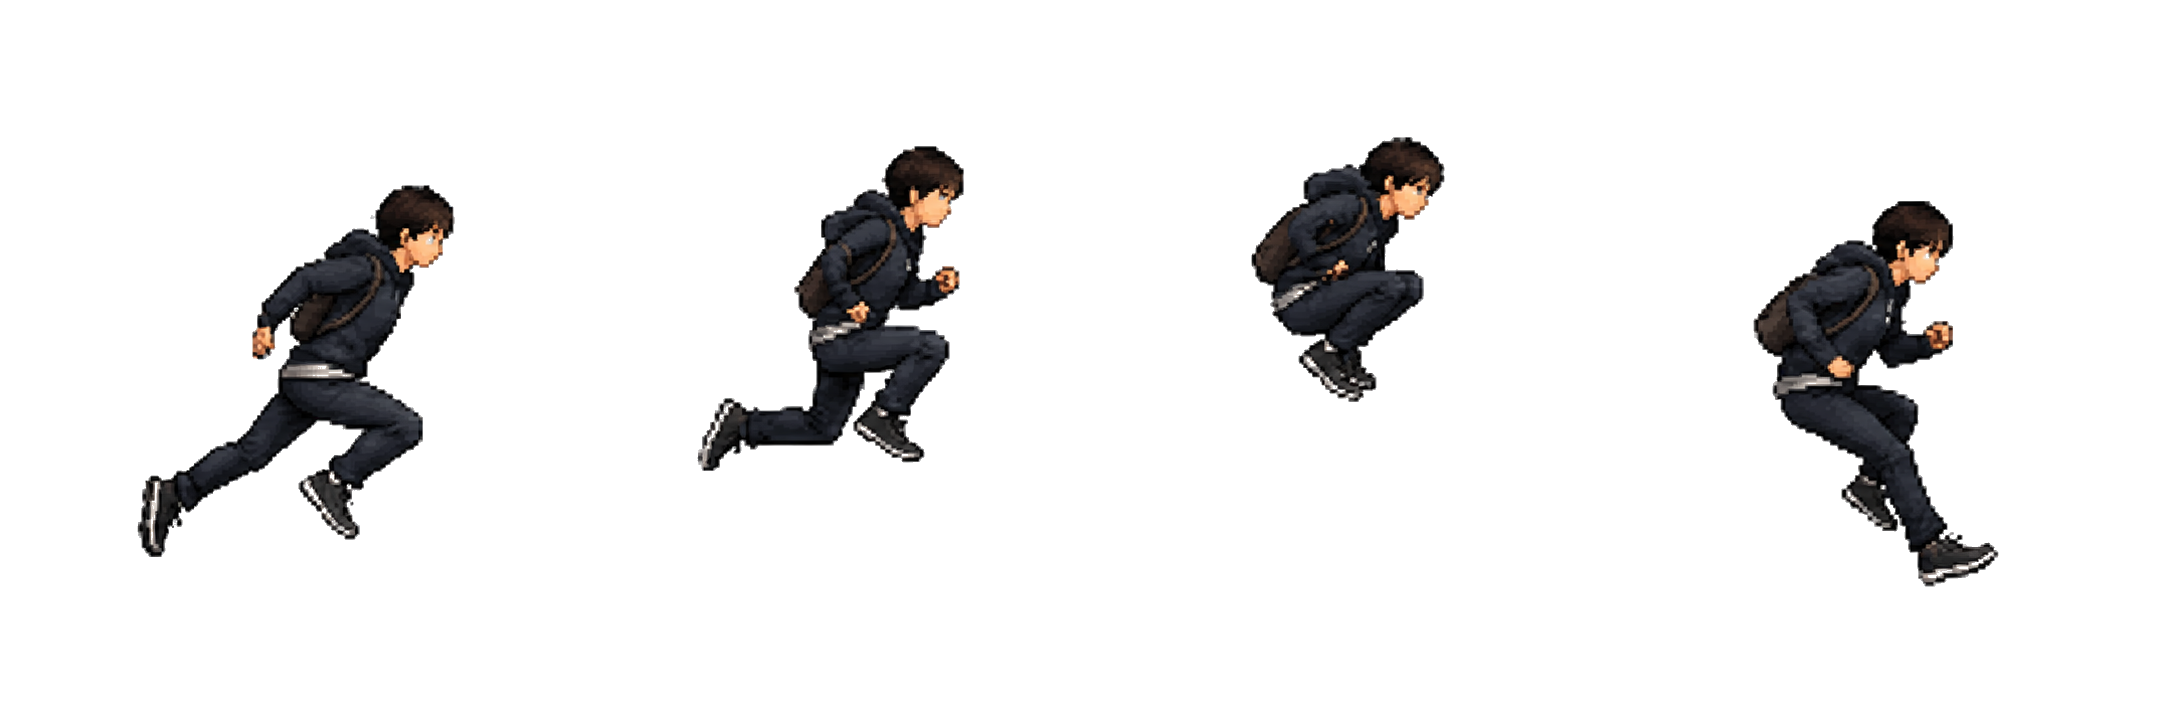
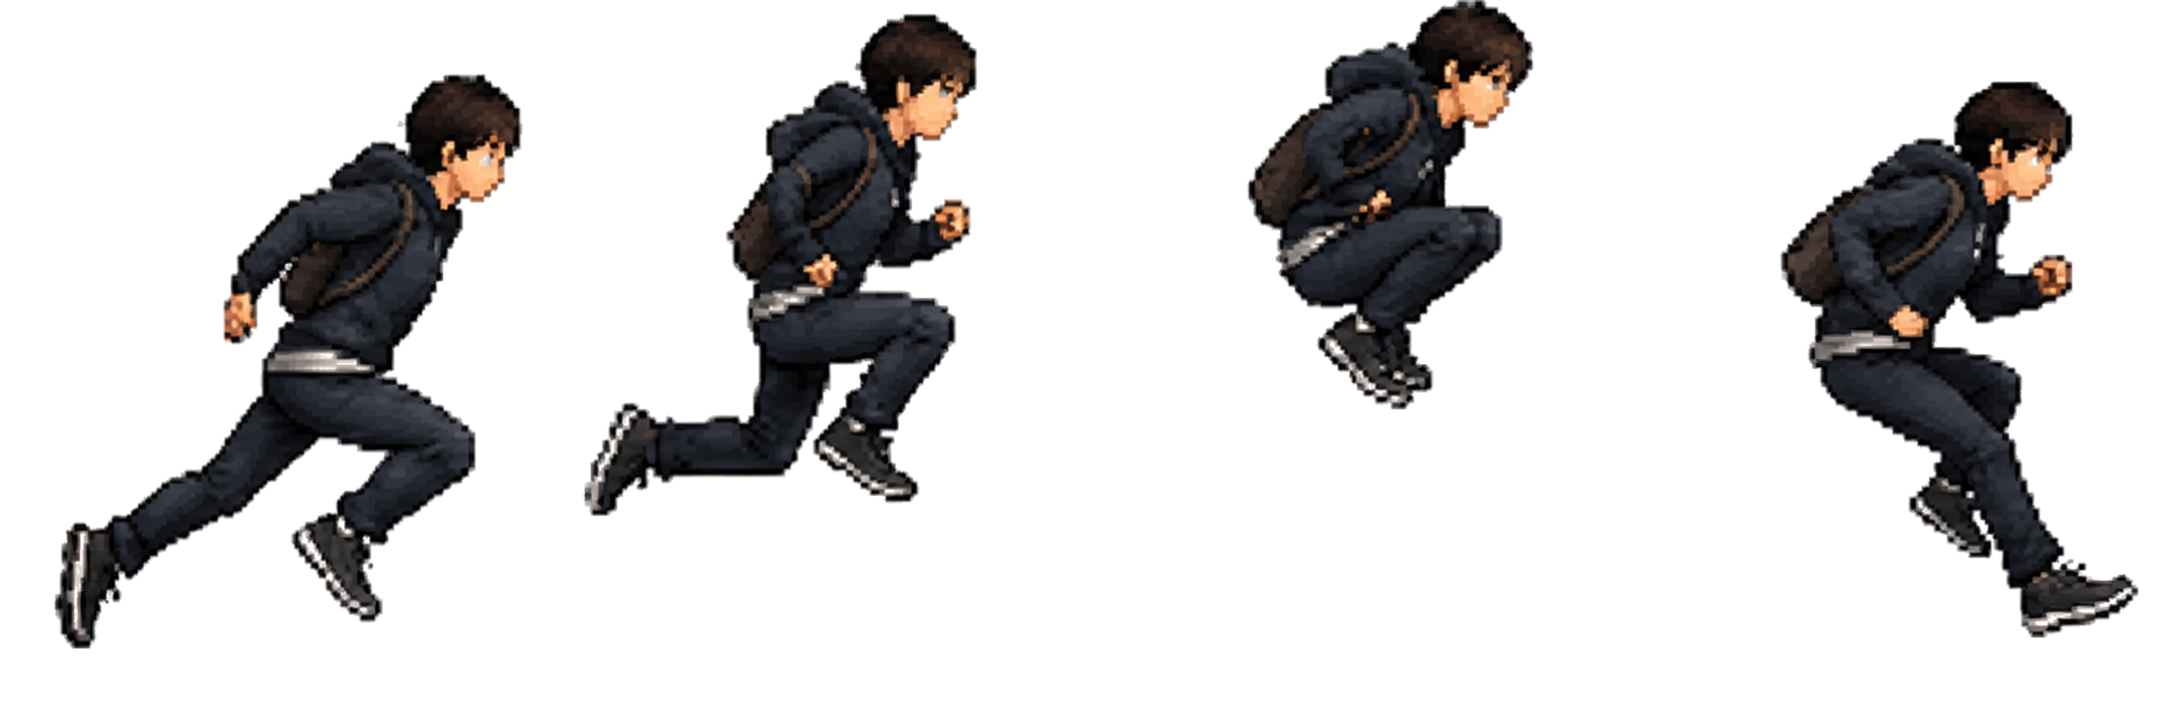
背景追加

diff --git a/game.js b/game.js
@@ -68,23 +68,28 @@
       src: 'assets/images/player/player_run.png',
       frames: 4,
       fps: 12,
-      drawHeight: 138,
+      drawHeight: 222,
       yOffset: 0,
     },
     jump: {
       src: 'assets/images/player/player_jump.png',
       frames: 4,
       fps: 10,
-      drawHeight: 138,
+      drawHeight: 222,
       yOffset: 0,
     },
     slide: {
       src: 'assets/images/player/player_slide.png',
       frames: 4,
       fps: 12,
-      drawHeight: 94,
+      drawHeight: 158,
       yOffset: 0,
     },
+  };
+
+  const BACKGROUND_IMAGES = {
+    far: 'assets/images/background/bg_far.png',
+    floor: 'assets/images/background/bg_floor.png',
   };
 
   const ENEMY_ATTACKS = {
@@ -146,6 +151,8 @@
     messages: [],
   };
 
+  const background = createImageSet(BACKGROUND_IMAGES);
+
   const player = {
     x: GAME.playerX,
     y: GAME.groundY,
@@ -201,6 +208,22 @@
   };
 
   enemy.image.src = ENEMY_SPRITE.primarySrc;
+
+  function createImageSet(definitions) {
+    const images = {};
+    for (const [name, src] of Object.entries(definitions)) {
+      const image = new Image();
+      images[name] = { image, ready: false, src };
+      image.onload = () => {
+        images[name].ready = true;
+      };
+      image.onerror = () => {
+        images[name].ready = false;
+      };
+      image.src = src;
+    }
+    return images;
+  }
 
   function createSpriteSet(definitions) {
     const sprites = {};
@@ -935,6 +958,28 @@
   }
 
   function drawBackground() {
+    if (background.far.ready) {
+      drawLoopingImage(background.far.image, state.bg[0], 0, 0, GAME.width, GAME.height, 1);
+
+      if (background.floor.ready) {
+        const floorSourceY = GAME.groundY - 75;
+        drawLoopingImageBand(
+          background.floor.image,
+          state.bg[3],
+          floorSourceY,
+          GAME.height - floorSourceY,
+          floorSourceY,
+          1,
+        );
+      } else {
+        drawFloor();
+      }
+
+      drawForegroundShadows(-state.bg[3]);
+      drawForegroundShadows(GAME.width - state.bg[3]);
+      return;
+    }
+
     const wall = ctx.createLinearGradient(0, 0, 0, GAME.height);
     wall.addColorStop(0, '#050506');
     wall.addColorStop(0.38, '#131416');
@@ -949,6 +994,30 @@
     drawFloor();
     drawForegroundShadows(-state.bg[3]);
     drawForegroundShadows(GAME.width - state.bg[3]);
+  }
+
+  function drawLoopingImage(image, offset, sx, sy, sw, sh, alpha) {
+    ctx.save();
+    ctx.globalAlpha = alpha;
+    const x = -offset % GAME.width;
+    ctx.drawImage(image, sx, sy, sw, sh, x, 0, GAME.width, GAME.height);
+    ctx.drawImage(image, sx, sy, sw, sh, x + GAME.width, 0, GAME.width, GAME.height);
+    if (x > 0) {
+      ctx.drawImage(image, sx, sy, sw, sh, x - GAME.width, 0, GAME.width, GAME.height);
+    }
+    ctx.restore();
+  }
+
+  function drawLoopingImageBand(image, offset, sourceY, sourceH, destY, alpha) {
+    ctx.save();
+    ctx.globalAlpha = alpha;
+    const x = -offset % GAME.width;
+    ctx.drawImage(image, 0, sourceY, image.width, sourceH, x, destY, GAME.width, sourceH);
+    ctx.drawImage(image, 0, sourceY, image.width, sourceH, x + GAME.width, destY, GAME.width, sourceH);
+    if (x > 0) {
+      ctx.drawImage(image, 0, sourceY, image.width, sourceH, x - GAME.width, destY, GAME.width, sourceH);
+    }
+    ctx.restore();
   }
 
   function drawFarCorridor(offset) {